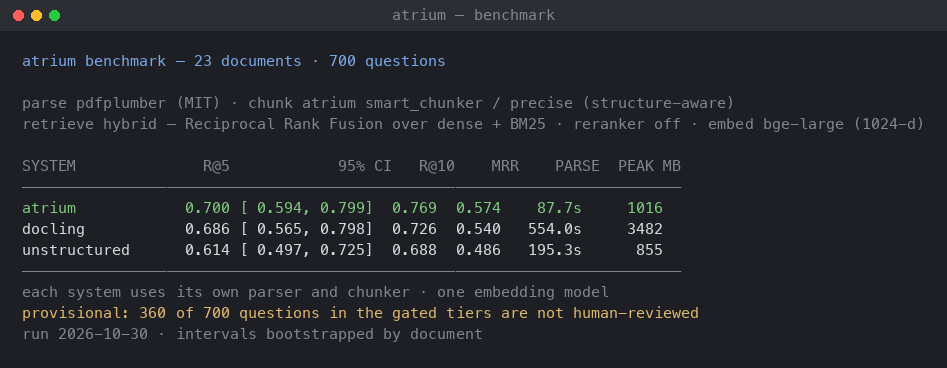
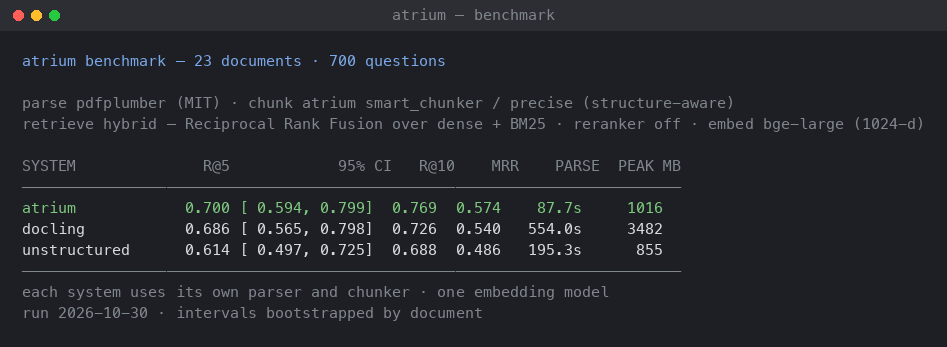
State the review policy instead of apologising for it in public
The caveat was attached to the product's face — the README and the
badge image — where it read as a weakness in the numbers rather than
as a fact about the harness. It belongs in the harness.

- The badge shows the configuration, the numbers and the intervals.
- The README says what the numbers mean: accuracy is on par with
  Docling at this corpus size, and the separation is in cost.
- The report states the review policy as a policy: every question
  carries its tier and its reviewer, the gated tiers are machine-
  drafted and queued for sign-off, and the harness prints how many are
  still open on every run.

Also adds the repository furniture: CONTRIBUTING, SECURITY, a bug
report template and dependabot.

diff --git a/scripts/render_benchmark_shot.py b/scripts/render_benchmark_shot.py
@@ -119,13 +119,6 @@ def build_lines(headline: dict) -> list:
         "each system uses its own parser and chunker · one embedding model",
         DIM,
     ))
-    unreviewed = headline.get("unreviewed_gated_questions", 0)
-    if unreviewed:
-        lines.append((
-            f"provisional: {unreviewed} of {headline.get('questions', '?')} "
-            f"questions in the gated tiers are not human-reviewed",
-            YELLOW,
-        ))
     lines.append((
         f"run {str(headline.get('generated', '?'))[:10]} · "
         f"intervals bootstrapped by document",

diff --git a/CONTRIBUTING.md b/CONTRIBUTING.md
@@ -1,0 +1,56 @@
+# Contributing
+
+Thanks for taking a look. This is a small library, so the bar is mostly
+"does it work, and does the test prove it".
+
+## Set up
+
+```bash
+git clone https://github.com/ItsMeYash777/atrium-rag
+cd atrium-rag
+python3 -m venv .venv && source .venv/bin/activate
+pip install -e ".[dev]"
+```
+
+## Before you open a pull request
+
+```bash
+pytest tests/ -q          # the unit suite
+ruff check atrium tests scripts
+mypy atrium               # advisory: it reports, it does not fail
+make build                # wheel + sdist, then twine check
+```
+
+`make build` must pass. `twine check` on both artifacts is the same
+check CI runs, so it is worth running before you push.
+
+## What a change should look like
+
+- **A behaviour change comes with a test.** The suite is fast and needs no
+  services: no Qdrant, no Ollama, no network. If your change needs one of
+  those to be tested, it belongs behind a skip.
+- **A user-visible change comes with a README edit.** The configuration
+  table, the API table and the CLI table are all maintained by hand, and
+  they are the first thing a reader checks.
+- **Keep the parse path free of model calls.** The parser is pure Python
+  and heuristic on purpose; it is the reason the product is fast and the
+  reason it is MIT-licensed. A pull request that adds a model to the
+  parse path needs a very good argument.
+- **One thing per pull request.** A refactor and a behaviour change in the
+  same diff are two pull requests.
+
+## The parser
+
+The parsing heuristics live in `atrium/universal_parser.py`, the chunking
+strategies in `atrium/smart_chunker.py`. Both are the parts of the system
+that most need care, because both are tuned against documents rather than
+against tests: a change that looks right on one PDF is often wrong on the
+next one. If you touch either, say which documents you checked it against.
+
+## The benchmark
+
+The evaluation harness, the corpus and the results live in a separate
+repository, `atrium-benchmarks`, so that the numbers can be reproduced
+independently of the library. A change to the parser or the chunker
+invalidates the published numbers; say so in the pull request, and the
+harness has to be re-run before they are re-published.

diff --git a/SECURITY.md b/SECURITY.md
@@ -1,0 +1,48 @@
+# Security
+
+## Reporting a vulnerability
+
+Please **do not open a public issue** for a security problem.
+
+Use **GitHub's private vulnerability reporting**:
+<https://github.com/ItsMeYash777/atrium-rag/security/advisories/new>
+
+(That link works once *Settings -> Security -> Private vulnerability
+reporting* is enabled on the repository. If it is not, email the
+maintainer directly — the address is in the repository's `README`.)
+
+Include:
+
+- what the problem is, and what an attacker could do with it;
+- the version (`atrium version`), the Python version, and the platform;
+- the smallest reproduction you can manage — a file, a request, a command.
+
+You will get an acknowledgement within a few days, and a fix or a
+mitigation plan once the problem is confirmed. Please give the project a
+reasonable window to publish a fix before disclosing it publicly.
+
+## What is in scope
+
+- The HTTP API: the bearer-token gate, the upload path, the MIME
+  sniffing, and the file-size limits.
+- The document parser: a file you upload should not be able to reach the
+  filesystem outside its own workspace, and a malformed document should
+  fail rather than misbehave.
+- The CLI and the worker: anything reachable from an uploaded document.
+
+## What is not in scope
+
+- **The model and the vector store are not part of this package.** The
+  embedding endpoint and the vector database are yours; a misconfigured
+  one is an operational problem, not a vulnerability here.
+- Missing rate limiting on a deployment you have not put behind a proxy.
+- Denial of service from a document large enough to exhaust memory —
+  `MAX_UPLOAD_BYTES` exists for that, and the default is 100 MB.
+
+## Notes for operators
+
+- `API_KEY` empty means every endpoint is open. Set it for anything that
+  is not a laptop. `atrium doctor` says so.
+- `ALLOWED_MIME_TYPES` empty means any type the detector returns is
+  accepted. Set it on a hostile upload surface.
+- The API binds `0.0.0.0` by default. Put it behind a proxy.

diff --git a/README.md b/README.md
@@ -372,12 +372,15 @@ its own parser and chunker and the same embedding model:
 | docling | 0.686 | 0.726 | 0.540 | 554 s | 3482 MB |
 | unstructured | 0.614 | 0.688 | 0.486 | 195 s | 855 MB |
 
-These numbers are provisional: the hard, implicit and unanswerable
-tiers are machine-drafted and awaiting human review, and the
-difference against Docling is inside the confidence interval at this
-corpus size. See `docs/benchmark/final_result.md` in the benchmarks
-repository for the intervals, the per-tier breakdown and the failure
-attribution.
+Retrieval accuracy is on par with Docling at this corpus size — the
+difference is inside the confidence interval, which the report states
+with the interval. The separation is in cost: atrium parses the corpus
+in a sixth of the time and a third of the memory.
+
+The harness, the corpus and the exact commands are published in the
+`atrium-benchmarks` repository, so the numbers can be reproduced. See
+`docs/benchmark/final_result.md` there for the intervals, the per-tier
+breakdown and the failure attribution.
 
 ---
 
